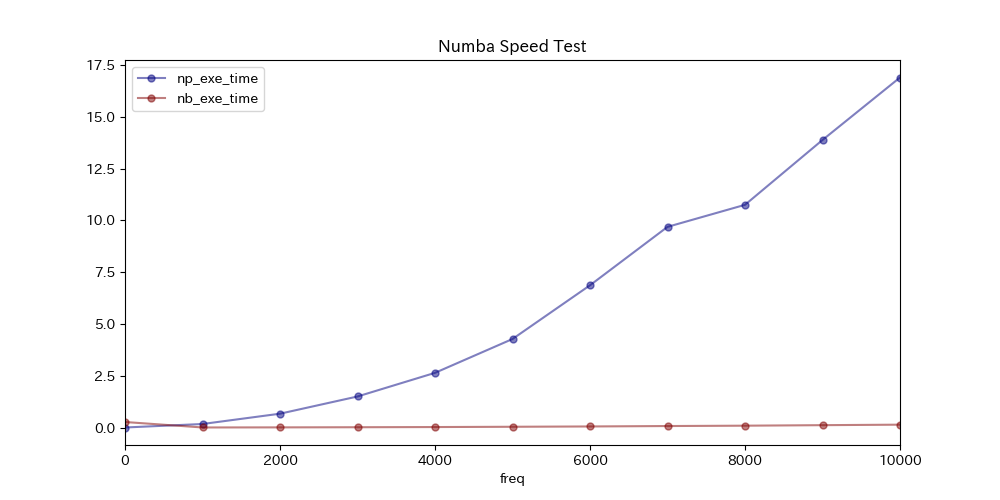
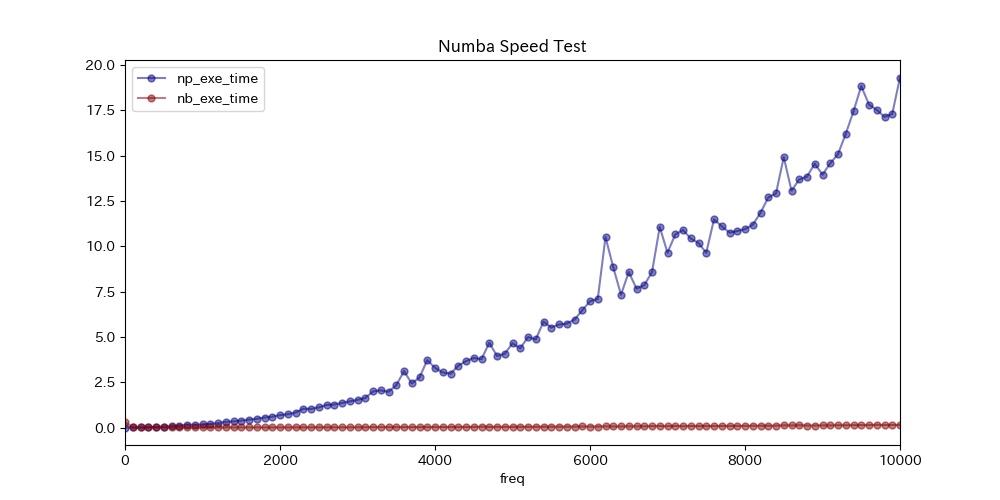
add Readme

diff --git a/numba_speed_test.py b/numba_speed_test.py
@@ -40,11 +40,11 @@ def exe_time_printer(x, y):
 
     return "%.10f"%np_exe_time, "%.10f"%nb_exe_time
 
-freq = np.arange(0,10001,1000)
+freq = np.arange(0,10001,100)
 df = pd.DataFrame(columns=['freq','np_exe_time','nb_exe_time'])
 
 for i in freq:
-    print(i)
+    # print(i)
     np_exe_time, nb_exe_time = exe_time_printer(int(i), int(i))
     se = pd.Series([i, float(np_exe_time[:7]), float(nb_exe_time[:7])], index=df.columns)
     df = df.append(se, ignore_index=True)

diff --git a/Readme.md b/Readme.md
@@ -1,0 +1,41 @@
+# numba Speed Test  
+numbaモジュールを使って関数を雑に高速化します。  
+## numbaとは  
+[公式](https://numba.pydata.org/)によるとPythonインタプリタを切り替えることなくC、C ++、Fortranと同様にJIT(Just In Time)コンパイルできる、とのこと。  
+import時にLLVMコンパイラなるもので最適化したコードを生成してくれるそうです。  
+実装方法もCythonみたいな初心者殺しではなく、importして関数の上に一行「@jit」と書くだけ。  
+(デコレータ機能で関数ごと高次関数に引き渡している模様)  
+ここまで聞くと低級言語のレゾンデートルを破壊しかねないアトモスフィアを醸し出しているけれど、残念ながら扱える機能に制限がある模様。  
+ざっと読んだ限りで大雑把に述べるとstr型がダメでint, float, boolあたりはOK。  
+配列やタプルは大体大丈夫だけど、dicとsetは無理みたい。  
+数字に強いのでnumpyも幅広くサポートしているみたいでモジュール内で「import numpy」をgrepしたら40件返ってきた。  
+(ダメ元でpandasでもやってみたけど見事に0件だった)  
+もっと知りたいときは公式の[リファレンスマニュアル](http://numba.pydata.org/numba-doc/0.37.0/reference/index.html)から。
+
+## 実験内容
+試験に使ったコードは[こちら](https://github.com/tomboy-jp/numba_speed_test/blob/master/numba_test.py)。  
+コア部分を抽出すると、  
+```
+result = float(0)
+X = np.random.rand(x_num)
+Y = np.random.rand(y_num)
+for x in X:
+    for y in Y:
+        result += x - y
+
+return result
+```
+といった感じのシンプルなもの。
+jitデコレータなしの関数とjitデコレータ付きの関数を用意し、
+x_numとy_numの値を変更しながら(今回はx_num = y_num)、それぞれの実行時間を計測してみた。  
+
+## 実験結果
+
+![実行結果](https://raw.githubusercontent.com/tomboy-jp/numba_speed_test/master/result/result.png "実行結果")
+
+x軸がx_numとy_numの値でy軸が実行時間(sec)を示している。
+青いグラフがnumpyだけの(jitデコレータなしの)実験結果で、赤いグラフがnumbaを使った実験結果である。  
+うん、numba圧勝としか言えない。  
+初回(0件で投げたとき)こそ惜敗しているものの(読み込みの時間かと)、その後はどんどん差をつけて最終的にはjitなしをフルボッコにしている。  
+他の言語の速度試験をしたことがないので、上には上がいるのかもしれないけど、コスパ(効果/学習コスト)がすごい。  
+Pythonっ子としては大変有益な情報だった。  
